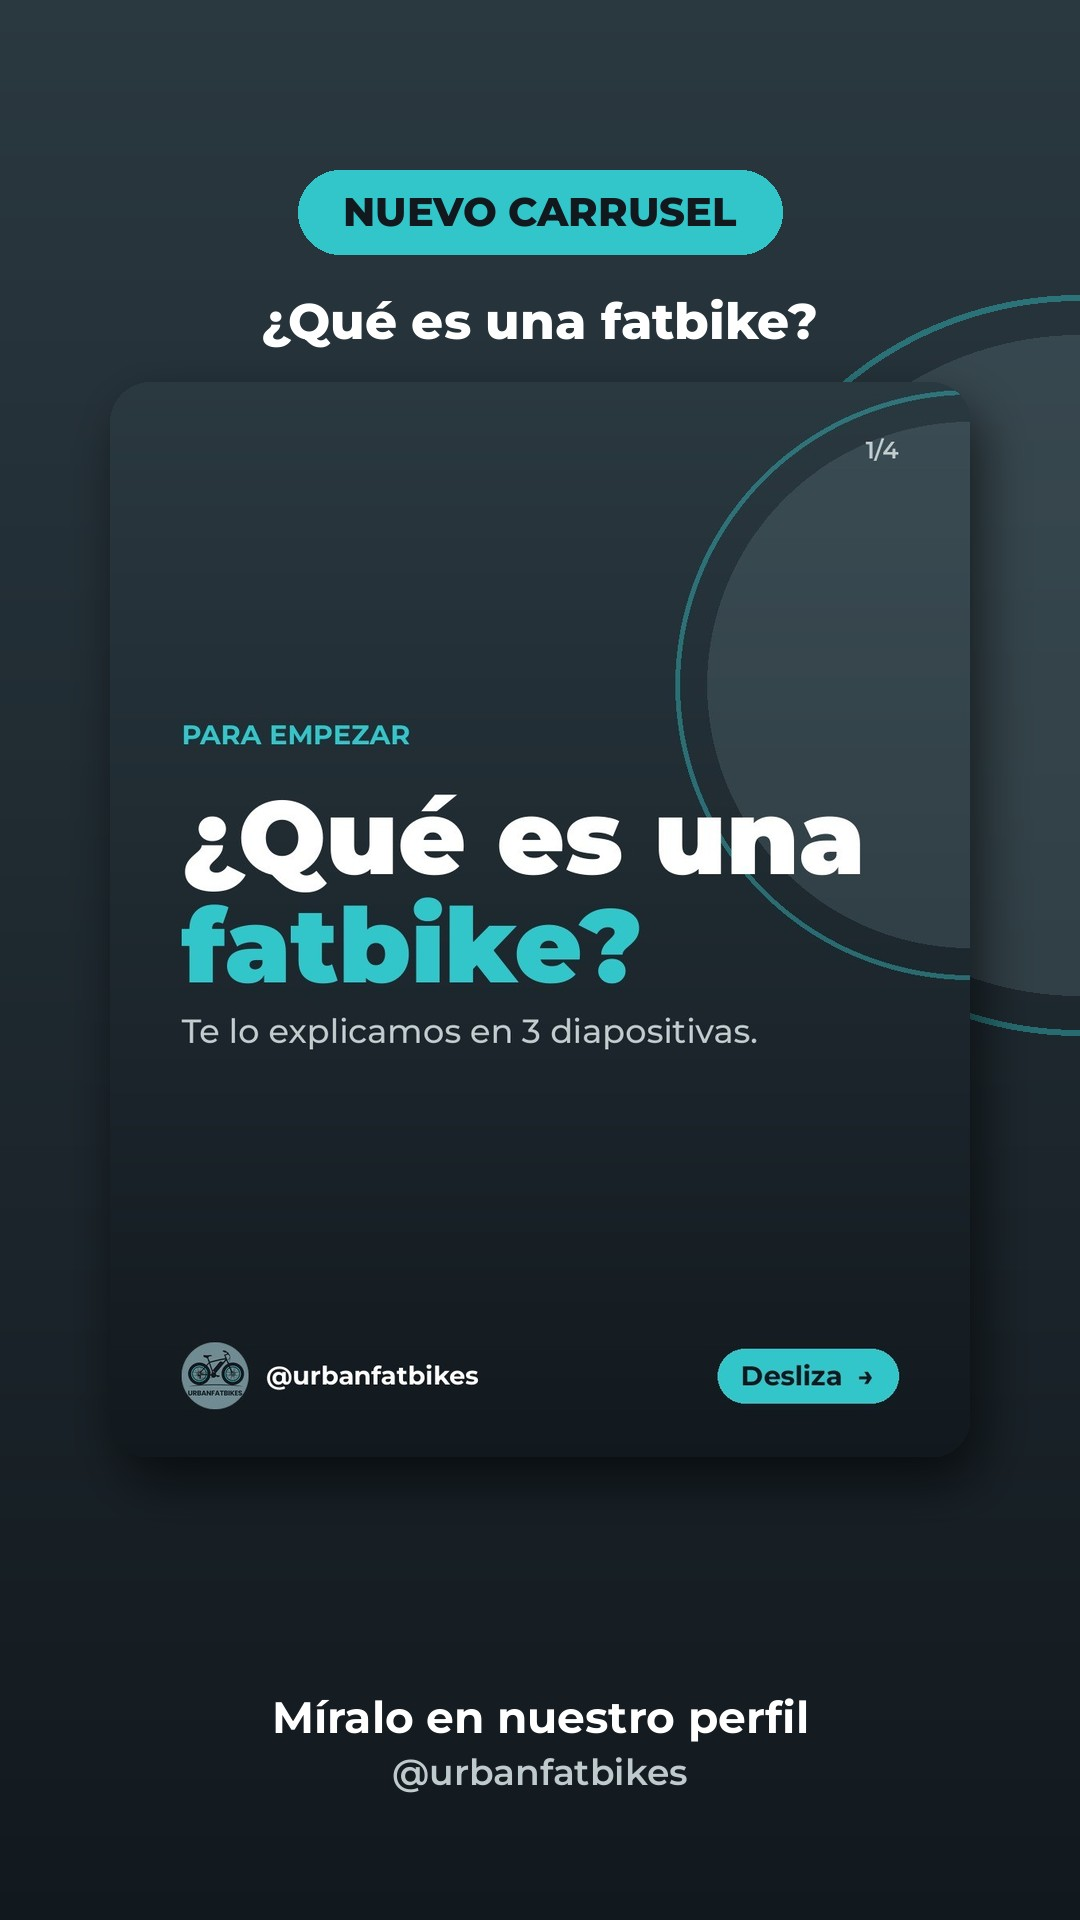
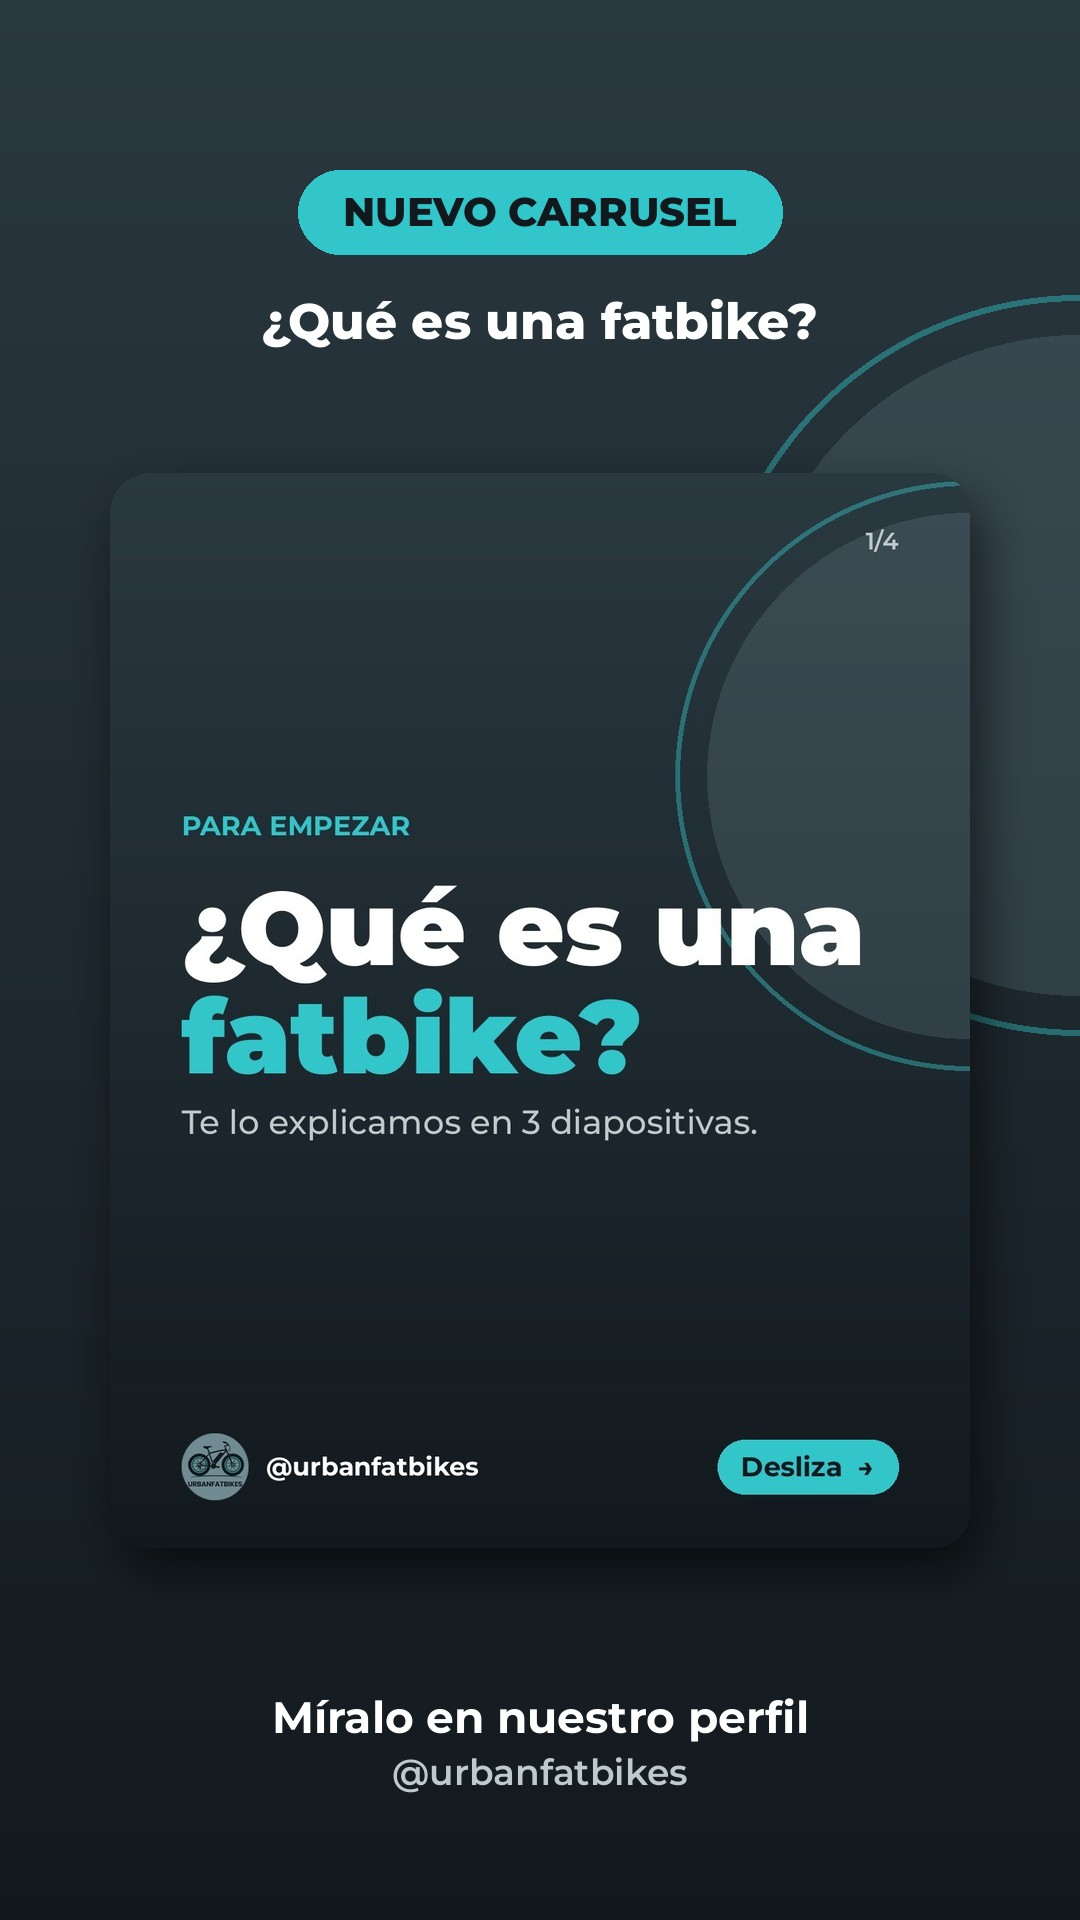
Activar las publicaciones de la V8 (permiso del proveedor) y portada nítida para su historia
Claude-Session: https://claude.ai/code/session_01V1XNpUbkNZwBBpJpojktBy

diff --git a/historias.py b/historias.py
@@ -90,12 +90,14 @@ def nuevo_post(publicacion):
         d.text((ANCHO / 2, y), texto, font=letra, fill=BLANCO, anchor="ma")
         y += 62
 
-    # Portada de la publicación, con esquinas redondeadas y sombra
-    imagen = portada(archivos[0])
+    # Portada de la publicación, con esquinas redondeadas y sombra.
+    # Con "portada: archivo.jpg" en el calendario se usa esa imagen en su lugar.
+    imagen = portada(publicacion.get("portada") or archivos[0])
     alto_max, ancho_max = 1640 - (y + 30), 860
     escala = min(ancho_max / imagen.width, alto_max / imagen.height)
     imagen = imagen.resize((round(imagen.width * escala), round(imagen.height * escala)), Image.LANCZOS)
-    x0, y0 = (ANCHO - imagen.width) // 2, y + 30
+    # Centrada en el hueco que queda (las portadas apaisadas no quedan pegadas arriba)
+    x0, y0 = (ANCHO - imagen.width) // 2, y + 30 + (alto_max - imagen.height) // 2
     sombra = Image.new("RGBA", lienzo.size, (0, 0, 0, 0))
     ImageDraw.Draw(sombra).rounded_rectangle((x0 + 10, y0 + 24, x0 + imagen.width + 10, y0 + imagen.height + 24),
                                              radius=40, fill=(0, 0, 0, 150))
